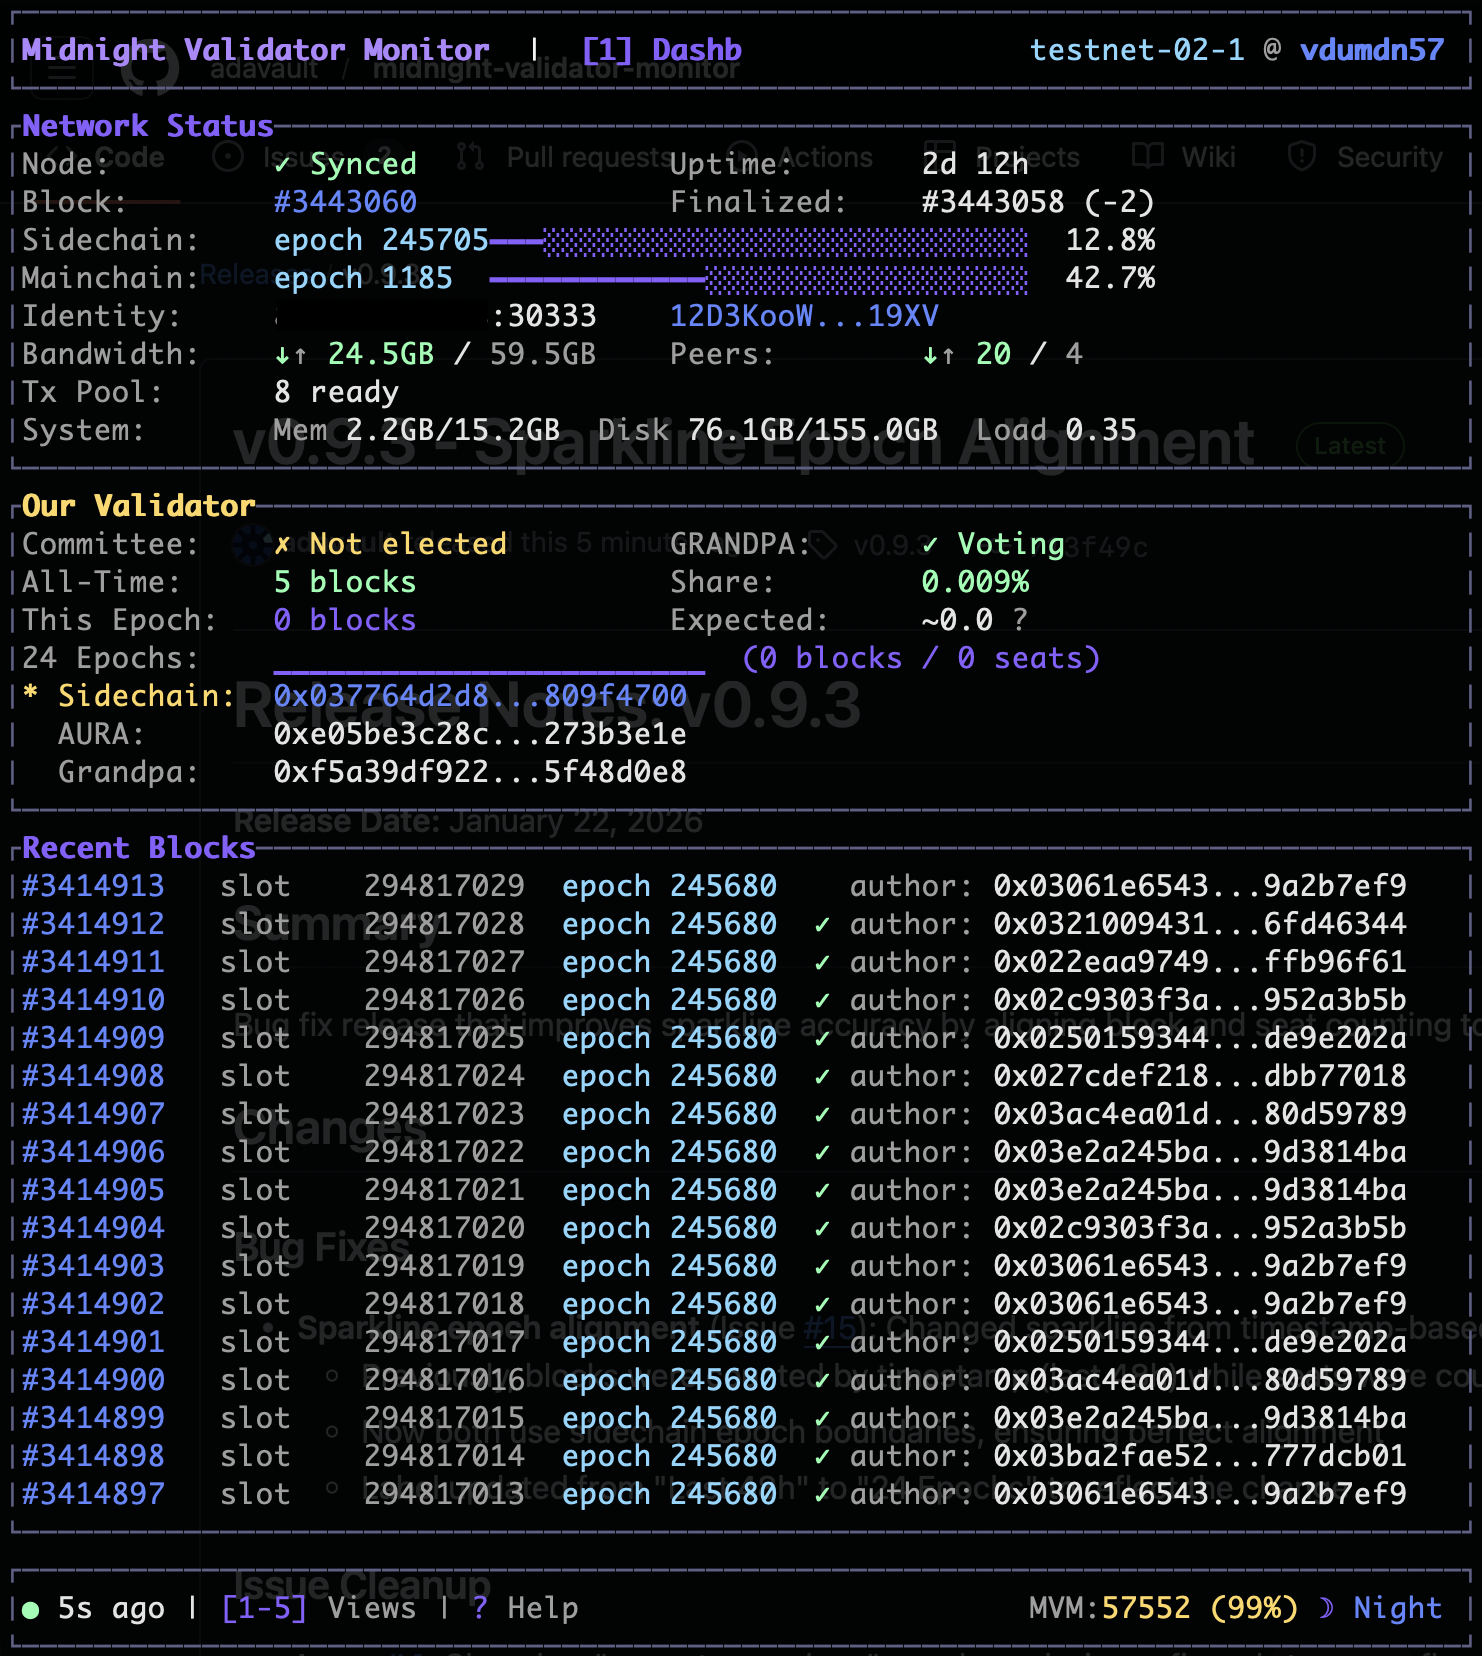
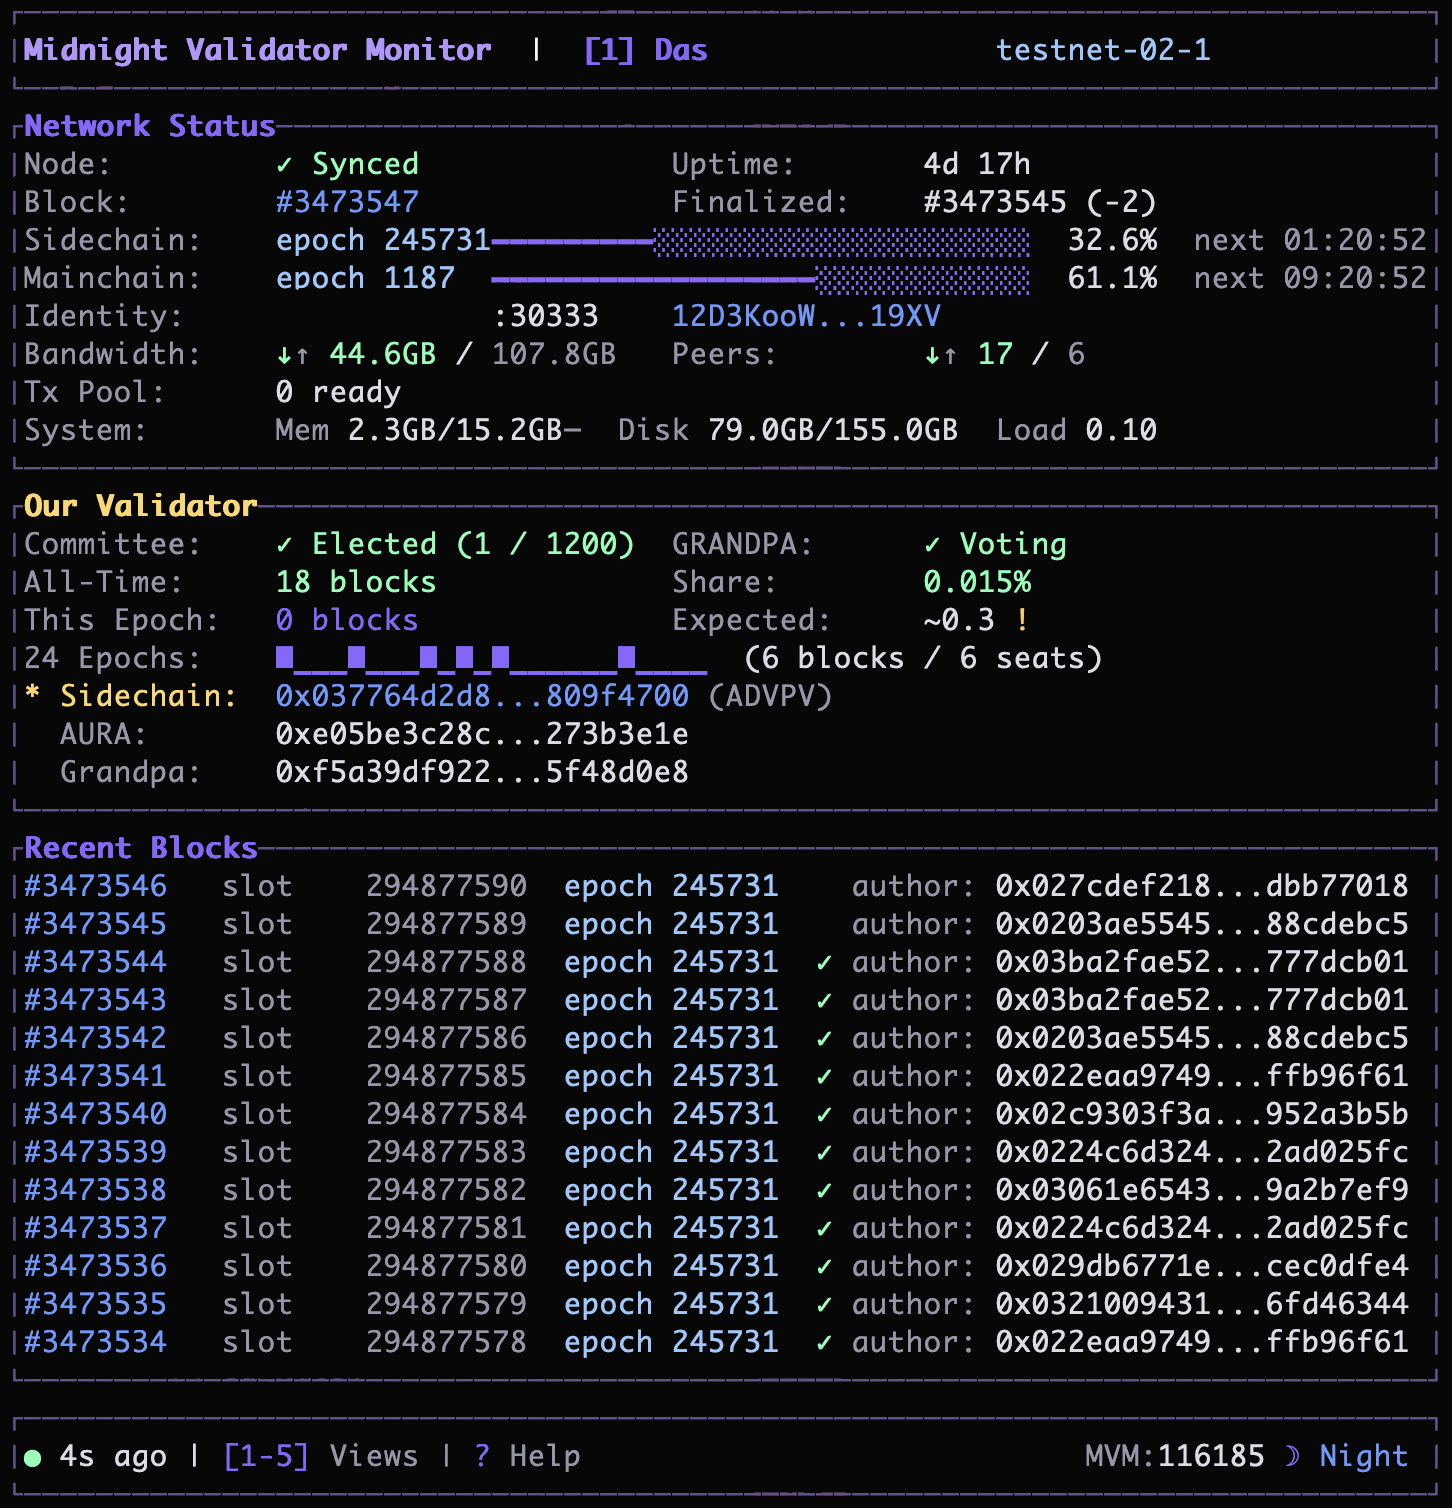
Release v1.0.0
- Bump version to 1.0.0
- Update dashboard screenshot for v1.0.0 release
- Remove unused popup screenshots
- Update CLAUDE.md with server environment details

diff --git a/CLAUDE.md b/CLAUDE.md
@@ -369,9 +369,18 @@ The `metrics.rs` module parses Prometheus-format metrics from the node's `/metri
 - Rust via rustup/ghcup
 
 ### Server Environment
-- **vdumdn57** - Ubuntu Linux x86_64 validator server
-- Midnight node running with `--rpc-methods=unsafe`
-- MVM installed at `/usr/local/bin/mvm`
+
+All servers use standardized access: `ssh midnight@<hostname>`
+
+| Server | Role | Architecture | Notes |
+|--------|------|--------------|-------|
+| **vdumdn57** | Development | x86_64 Ubuntu | Primary dev server, MVM source repo |
+| **vdumdn90** | Production validator | x86_64 Ubuntu | Midnight node with `--rpc-methods=unsafe`, MVM v1.0.0 systemd |
+
+- MVM installed at `/opt/midnight/mvm/bin/mvm` (symlinked to `/usr/local/bin/mvm`)
+- Systemd services: `mvm-sync.service`, `mvm-status.service`
+- Config: `/opt/midnight/mvm/config/config.toml`
+- Database: `/opt/midnight/mvm/data/mvm.db`
 
 ### Discord Context
 Export scripts in `scripts/discord-export.sh` pull from Midnight Discord channels:
